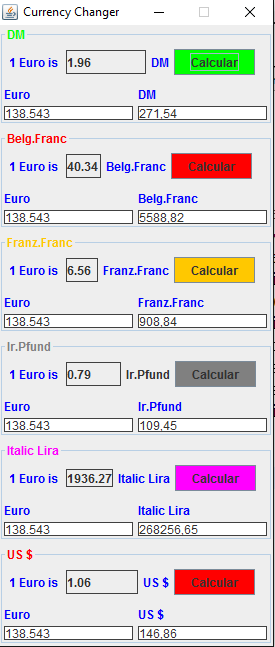
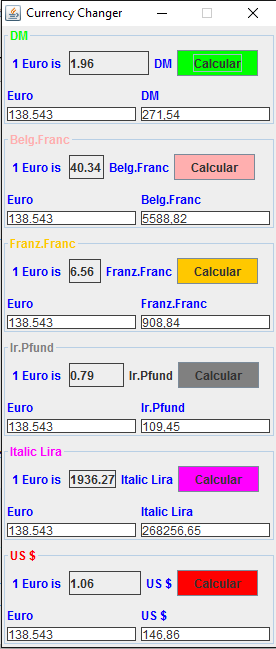
Cambiando color en un panel

diff --git a/src/MCV/VistaMonedaBelgFranc.java b/src/MCV/VistaMonedaBelgFranc.java
@@ -38,7 +38,7 @@ public class VistaMonedaBelgFranc extends MiJPanel{
 		getResultado1().setPreferredSize(new Dimension(35, 24));
 
 		calcular = new JButton("Calcular");
-		getbtnCalcular().setBackground(Color.red);
+		getbtnCalcular().setBackground(Color.pink);
 		getbtnCalcular().addActionListener(new ControllerCambioMoneda.OyenteBotonBelg());
 
 		getResultado1().setBorder(bordergray);
@@ -59,7 +59,7 @@ public class VistaMonedaBelgFranc extends MiJPanel{
 		setBorder(javax.swing.BorderFactory.
 				createTitledBorder(null, "Belg.Franc", javax.swing.border.
 						TitledBorder.DEFAULT_JUSTIFICATION, javax.swing.border.
-						TitledBorder.DEFAULT_POSITION, null, java.awt.Color.red));
+						TitledBorder.DEFAULT_POSITION, null, java.awt.Color.pink));
 
 		setLayout(new GridLayout(2, 1, 10, 10));
 
